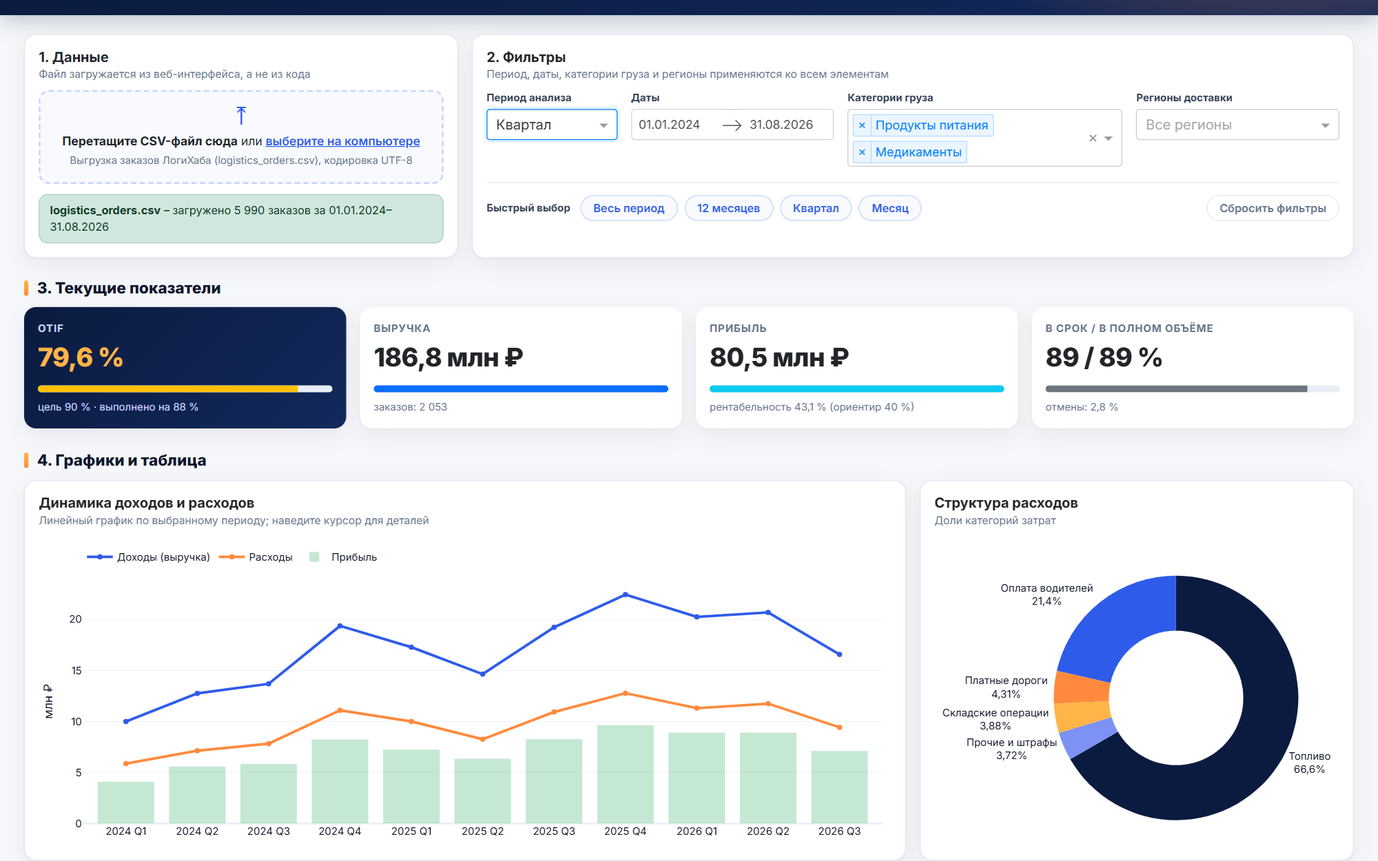
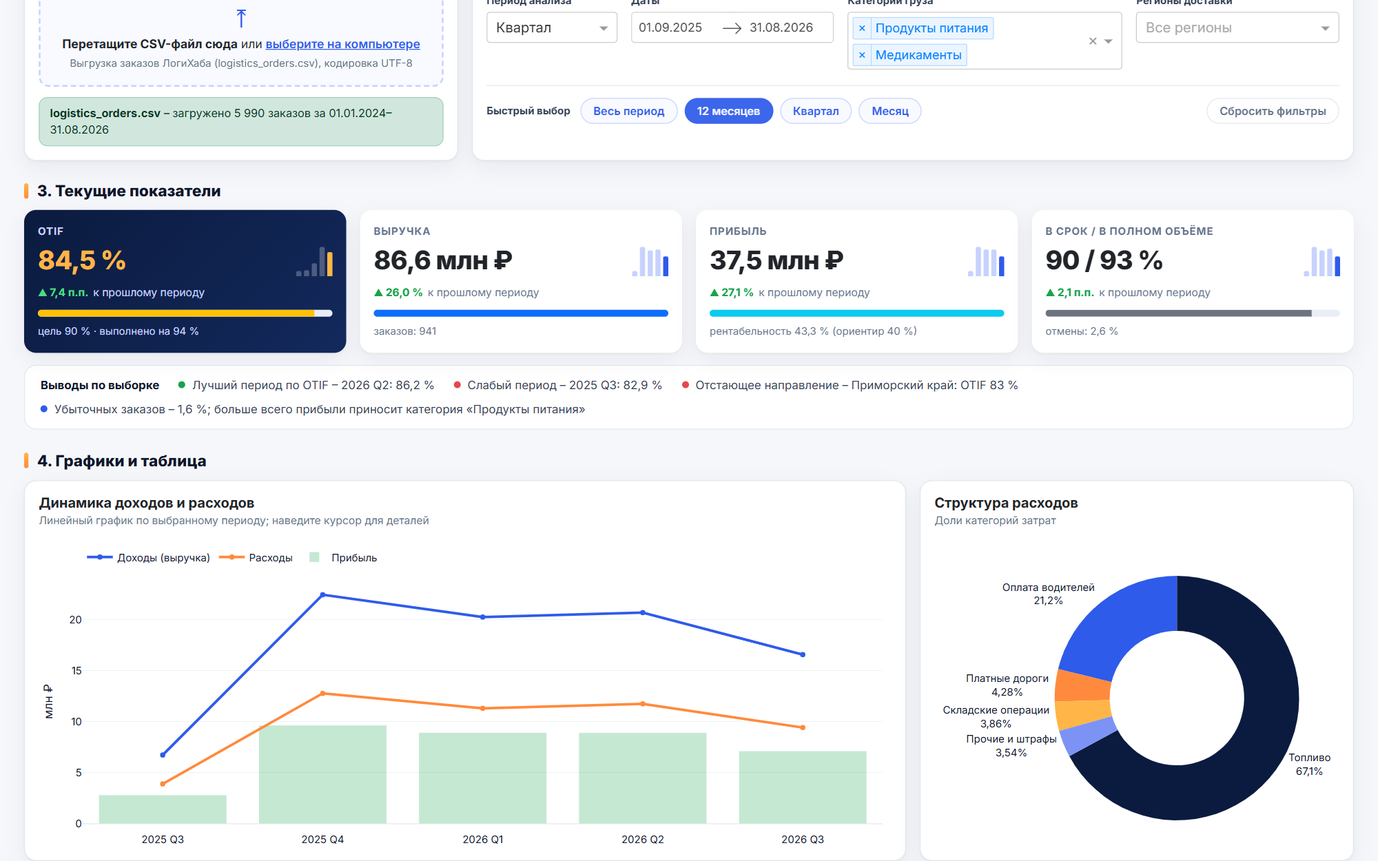
feat: сравнение с прошлым периодом, мини-тренды, выводы, перекрёстная фильтрация
- KPI: изменение к прошлому периоду той же длины (▲/▼, п.п. или %), мини-тренд по периодам
- «Выводы по выборке»: лучший и слабый период по OTIF, отстающее направление, доля убыточных заказов
- щелчок по региону на графике фильтрует весь дашборд, повторный – снимает фильтр
- плавный пересчёт: числа в карточках (assets/kpi.js) и графики (transition) перетекают к новым значениям
- data.previous_window и data.insights покрыты тестами (13 тестов)
- README и скриншоты документации обновлены

diff --git a/assets/style.css b/assets/style.css
@@ -67,3 +67,35 @@ body { background: var(--bg); font-family: Inter, "Segoe UI", Arial, sans-serif;
 .lh-chip:focus-visible, .lh-reset:focus-visible { outline: 2px solid var(--blue); outline-offset: 2px; }
 .lh-dates .DateRangePickerInput { height: 36px; border: 1px solid #ccc; border-radius: 4px; overflow: hidden; }
 .lh-dates .DateInput_input { height: 34px; font-size: 14px; border-bottom: 0; }
+
+/* KPI: значение и мини-тренд в одной строке, изменение к прошлому периоду */
+.lh-kpi-row { display: flex; align-items: flex-end; justify-content: space-between; gap: 12px; }
+.lh-kpi-row .lh-kpi-value { margin-bottom: 6px; }
+.lh-spark { display: flex; align-items: flex-end; gap: 3px; height: 34px; margin-bottom: 10px; flex: none; }
+.lh-spark i { display: block; width: 6px; border-radius: 2px 2px 0 0; background: #c7d2fe; transition: height .45s cubic-bezier(.4, 0, .2, 1); }
+.lh-spark i:last-child { background: var(--blue); }
+.lh-kpis .col-xl-3:first-child .lh-spark i { background: rgba(255, 255, 255, .25); }
+.lh-kpis .col-xl-3:first-child .lh-spark i:last-child { background: var(--amber); }
+.lh-delta { display: block; font-size: 12.5px; color: var(--muted); margin: 0 0 10px; }
+.lh-delta b { font-weight: 700; margin-right: 2px; }
+.lh-delta--up b { color: #16a34a; }
+.lh-delta--down b { color: #e5484d; }
+.lh-delta--flat b { color: var(--muted); }
+.lh-delta--none { font-style: italic; }
+.lh-kpis .col-xl-3:first-child .lh-delta { color: #c7d2fe; }
+.lh-kpis .col-xl-3:first-child .lh-delta--up b { color: #4ade80; }
+.lh-kpis .col-xl-3:first-child .lh-delta--down b { color: #fca5a5; }
+
+/* выводы по выборке */
+.lh-insights:not(:empty) { display: flex; flex-wrap: wrap; align-items: center; gap: 8px 22px; margin-top: 14px; padding: 12px 18px;
+  background: #fff; border: 1px solid var(--line); border-radius: 14px; font-size: 13.5px; }
+.lh-insights-title { font-weight: 700; color: var(--ink); }
+.lh-insight { display: flex; align-items: center; gap: 8px; color: #334155; }
+.lh-dot { width: 8px; height: 8px; border-radius: 50%; flex: none; }
+.lh-dot--good { background: #16a34a; } .lh-dot--bad { background: #e5484d; } .lh-dot--info { background: var(--blue); }
+
+/* пересчёт: графики приглушаются, пока Dash обновляет данные; кликабельный график регионов */
+.lh-card .js-plotly-plot { transition: opacity .2s; }
+.lh-card:has([data-dash-is-loading="true"]) .js-plotly-plot { opacity: .55; }
+.lh-click .bars .point { cursor: pointer; }
+@media (prefers-reduced-motion: reduce) { .lh-spark i { transition: none; } }

diff --git a/assets/kpi.js b/assets/kpi.js
@@ -1,0 +1,32 @@
+/* Плавный пересчёт KPI: при смене фильтров числа в карточках перетекают от прежнего значения к новому.
+   Dash подключает файлы из assets/ автоматически. */
+(() => {
+  if (matchMedia("(prefers-reduced-motion: reduce)").matches) return;
+  const last = new Map();                                   // заголовок карточки -> прежние числа
+  const NUM = /\d+(?:,\d+)?/g;
+  const parse = (t) => (t.match(NUM) || []).map((s) => parseFloat(s.replace(",", ".")));
+  const fmt = (v, like) => { const dec = (like.split(",")[1] || "").length; return v.toFixed(dec).replace(".", ","); };
+
+  function animate(el, from, to) {
+    const tpl = el.textContent, parts = tpl.match(NUM) || [];
+    const t0 = performance.now(), dur = 650;
+    const step = (now) => {
+      const k = Math.min(1, (now - t0) / dur), e = 1 - Math.pow(1 - k, 3);
+      let i = 0;
+      el.textContent = tpl.replace(NUM, (m) => { const a = from[i] ?? to[i], b = to[i]; i += 1; return fmt(a + (b - a) * e, m); });
+      if (k < 1 && el.isConnected) requestAnimationFrame(step); else el.textContent = tpl;
+    };
+    if (parts.length) requestAnimationFrame(step);
+  }
+
+  new MutationObserver(() => {
+    document.querySelectorAll("#kpi-indicators .lh-kpi").forEach((card) => {
+      const el = card.querySelector(".lh-kpi-value"), key = card.querySelector(".lh-kpi-title")?.textContent;
+      if (!el || el.dataset.seen) return;
+      el.dataset.seen = "1";
+      const to = parse(el.textContent), from = last.get(key) || to.map(() => 0);
+      last.set(key, to);
+      if (to.some((v, i) => v !== from[i])) animate(el, from, to);
+    });
+  }).observe(document.body, { childList: true, subtree: true });
+})();

diff --git a/logihub_dashboard/callbacks.py b/logihub_dashboard/callbacks.py
@@ -8,7 +8,8 @@ import pandas as pd
 from dash import ALL, Input, Output, State, ctx, html, no_update
 
 from . import figures
-from .data import OTIF_TARGET, DataError, by_period, filter_orders, kpis, parse_upload, prepare
+from .data import (OTIF_TARGET, DataError, by_period, filter_orders, insights, kpis, parse_upload, prepare,
+                   previous_window)
 
 
 def _money(value: float) -> str:
@@ -21,10 +22,32 @@ def _pct(value: float, digits: int = 1) -> str:
     return f"{value:.{digits}f}".replace(".", ",") + " %"
 
 
-def indicator(title: str, value: str, percent: float, target: str, color: str) -> dbc.Card:
+def delta(now: float, before: float | None, kind: str) -> html.Span:
+    """Изменение к прошлому периоду той же длины: kind «pp» – процентные пункты, «rel» – проценты."""
+    if before is None:
+        return html.Span("нет прошлого периода для сравнения", className="lh-delta lh-delta--none")
+    d = now - before if kind == "pp" else ((now - before) / abs(before) * 100 if before else 0.0)
+    unit = " п.п." if kind == "pp" else " %"
+    arrow, tone = ("▲", "up") if d > 0.05 else ("▼", "down") if d < -0.05 else ("■", "flat")
+    return html.Span([html.B(f"{arrow} {abs(d):.1f}".replace(".", ",") + unit), " к прошлому периоду"],
+                     className=f"lh-delta lh-delta--{tone}")
+
+
+def spark(values) -> html.Div:
+    """Мини-тренд: последние 12 значений столбиками."""
+    vals = [float(v) for v in list(values)[-12:]]
+    if len(vals) < 2:
+        return html.Div(className="lh-spark")
+    lo, hi = min(vals), max(vals)
+    return html.Div(className="lh-spark", title="тренд по периодам выборки", children=[
+        html.I(style={"height": f"{18 + (v - lo) / (hi - lo or 1) * 82:.0f}%"}) for v in vals])
+
+
+def indicator(title: str, value: str, percent: float, target: str, color: str, change=None, trend=None) -> dbc.Card:
     return dbc.Card(className="lh-kpi", children=dbc.CardBody([
         html.Div(title, className="lh-kpi-title"),
-        html.Div(value, className="lh-kpi-value"),
+        html.Div([html.Div(value, className="lh-kpi-value"), trend], className="lh-kpi-row"),
+        change,
         dbc.Progress(value=max(0, min(percent, 100)), color=color, className="lh-progress"),
         html.Div(target, className="lh-kpi-target"),
     ]))
@@ -67,9 +90,24 @@ def register(app) -> None:
         return start.date(), hi.date(), no_update, no_update
 
     @app.callback(
+        Output("regions", "value", allow_duplicate=True), Output("graph-regions", "clickData"),
+        Input("graph-regions", "clickData"), State("regions", "value"),
+        prevent_initial_call=True,
+    )
+    def region_click(click, current):
+        """Перекрёстная фильтрация: щелчок по столбцу региона добавляет его в фильтр или убирает."""
+        if not click:
+            return no_update, no_update
+        region = click["points"][0]["y"]
+        current = list(current or [])
+        # clickData сбрасывается – иначе повторный щелчок по тому же столбцу не дойдёт до колбэка
+        return ([r for r in current if r != region] if region in current else [*current, region]), None
+
+    @app.callback(
         Output("kpi-indicators", "children"), Output("graph-timeseries", "figure"), Output("graph-costs", "figure"),
         Output("graph-profit-hist", "figure"), Output("graph-scatter", "figure"), Output("graph-otif", "figure"),
         Output("graph-regions", "figure"), Output("table-kpi", "data"), Output("dataset-info", "children"),
+        Output("insights", "children"),
         Input("store-data", "data"), Input("period", "value"), Input("date-range", "start_date"),
         Input("date-range", "end_date"), Input("cargo", "value"), Input("regions", "value"),
         Input("scatter-x", "value"),
@@ -78,23 +116,35 @@ def register(app) -> None:
         if not data:
             placeholder = figures.empty()
             hint = html.Div("Загрузите файл с данными, чтобы увидеть показатели", className="lh-empty")
-            return hint, *[placeholder] * 6, [], "Данные не загружены"
+            return hint, *[placeholder] * 6, [], "Данные не загружены", []
         df = prepare(pd.read_json(io.StringIO(data), orient="split"))
         view = filter_orders(df, start, end, cargo, regions)
         k = kpis(view)
+        win = previous_window(df, start, end)
+        p = kpis(filter_orders(df, *win, cargo, regions)) if win else None
+        prev = (lambda key: p[key] if p and p["orders"] else None)
+        per = by_period(view, freq)
         cards = dbc.Row(className="g-3", children=[
             dbc.Col(md=6, xl=3, children=indicator("OTIF", _pct(k["otif"]), k["otif"] / OTIF_TARGET * 100,
                                                    f"цель {OTIF_TARGET:.0f} % · выполнено на {k['otif'] / OTIF_TARGET * 100:.0f} %",
-                                                   "success" if k["otif"] >= OTIF_TARGET else "warning")),
+                                                   "success" if k["otif"] >= OTIF_TARGET else "warning",
+                                                   delta(k["otif"], prev("otif"), "pp"), spark(per["otif"]))),
             dbc.Col(md=6, xl=3, children=indicator("Выручка", _money(k["revenue"]), 100,
-                                                   f"заказов: {k['orders']:,}".replace(",", " "), "primary")),
+                                                   f"заказов: {k['orders']:,}".replace(",", " "), "primary",
+                                                   delta(k["revenue"], prev("revenue"), "rel"), spark(per["revenue"]))),
             dbc.Col(md=6, xl=3, children=indicator("Прибыль", _money(k["profit"]), k["margin"] / 40 * 100,
-                                                   f"рентабельность {_pct(k['margin'])} (ориентир 40 %)", "info")),
+                                                   f"рентабельность {_pct(k['margin'])} (ориентир 40 %)", "info",
+                                                   delta(k["profit"], prev("profit"), "rel"), spark(per["profit"]))),
             dbc.Col(md=6, xl=3, children=indicator("В срок / в полном объёме", f"{k['on_time']:.0f} / {k['in_full']:.0f} %",
-                                                   k["on_time"], f"отмены: {_pct(k['cancel_rate'])}", "secondary")),
+                                                   k["on_time"], f"отмены: {_pct(k['cancel_rate'])}", "secondary",
+                                                   delta(k["on_time"], prev("on_time"), "pp"), spark(per["orders"]))),
         ])
-        table = by_period(view, freq)[["label", "orders", "revenue", "total_cost", "profit", "margin", "otif"]]
+        table = per[["label", "orders", "revenue", "total_cost", "profit", "margin", "otif"]]
+        notes = [html.Div([html.Span(className=f"lh-dot lh-dot--{kind}"), text], className="lh-insight")
+                 for kind, text in insights(view, freq)]
+        notes = [html.Div("Выводы по выборке", className="lh-insights-title"), *notes] if notes else []
         info = f"{len(view):,} из {len(df):,} заказов в выборке".replace(",", " ")
         return (cards, figures.revenue_cost_timeseries(view, freq), figures.cost_pie(view),
                 figures.profit_histogram(view), figures.profit_scatter(view, scatter_x), figures.otif_trend(view, freq),
-                figures.region_bars(view), table.round(2).to_dict("records"), info)
+                figures.region_bars(filter_orders(df, start, end, cargo, None), regions),
+                table.round(2).to_dict("records"), info, notes)

diff --git a/logihub_dashboard/figures.py b/logihub_dashboard/figures.py
@@ -18,6 +18,7 @@ def _style(fig: go.Figure, height: int = 360) -> go.Figure:
         font=dict(family="Inter, Segoe UI, Arial", size=12, color="#0f172a"),
         legend=dict(orientation="h", yanchor="bottom", y=1.04, xanchor="left", x=0, title_text=""),
         hoverlabel=dict(bgcolor="white", font_size=12), separators=", ",
+        transition=dict(duration=450, easing="cubic-in-out"),   # при смене фильтров графики перетекают
     )
     fig.update_xaxes(showgrid=False)
     fig.update_yaxes(gridcolor="#eef2f7")
@@ -109,16 +110,18 @@ def otif_trend(df: pd.DataFrame, freq: str) -> go.Figure:
     return _style(fig, 300)
 
 
-def region_bars(df: pd.DataFrame) -> go.Figure:
+def region_bars(df: pd.DataFrame, selected: list | None = None) -> go.Figure:
+    """Выручка и OTIF по регионам. df – без фильтра по регионам, выбранные регионы выделяются цветом."""
     done = completed(df)
     if done.empty:
         return empty("Нет данных")
     data = done.groupby("region").agg(revenue=("revenue", "sum"), otif=("otif", "mean")).reset_index()
     data = data.sort_values("revenue")
-    fig = go.Figure(go.Bar(x=data["revenue"] / 1e6, y=data["region"], orientation="h", marker_color=BLUE,
+    colors = [BLUE if not selected or r in selected else "#c7d2fe" for r in data["region"]]
+    fig = go.Figure(go.Bar(x=data["revenue"] / 1e6, y=data["region"], orientation="h", marker_color=colors,
                            text=[f"OTIF {v * 100:.0f} %" for v in data["otif"]], textposition="inside",
-                           insidetextanchor="end", textfont=dict(color="white"),
-                           hovertemplate="%{y}<br>Выручка: %{x:.1f} млн ₽<extra></extra>"))
+                           insidetextanchor="end", textfont=dict(color=["white" if c == BLUE else NAVY for c in colors]),
+                           hovertemplate="%{y}<br>Выручка: %{x:.1f} млн ₽<br><i>щелчок – фильтр по региону</i><extra></extra>"))
     fig.update_xaxes(title_text="Выручка, млн ₽", showgrid=True, gridcolor="#eef2f7")
     return _style(fig, 300)
 

diff --git a/logihub_dashboard/data.py b/logihub_dashboard/data.py
@@ -119,3 +119,42 @@ def cost_structure(df: pd.DataFrame) -> pd.DataFrame:
     done = completed(df)
     s = done[list(COST_COLUMNS)].sum().rename(index=COST_COLUMNS)
     return s.reset_index().rename(columns={"index": "category", 0: "amount"})
+
+
+def previous_window(df: pd.DataFrame, start, end):
+    """Период той же длины непосредственно перед выбранным – для сравнения KPI.
+    None, если границы не заданы или данных до начала выборки нет."""
+    if not start or not end or df.empty:
+        return None
+    s, e = pd.to_datetime(start).normalize(), pd.to_datetime(end).normalize()
+    days = (e - s).days + 1
+    ps, pe = s - pd.Timedelta(days=days), s - pd.Timedelta(days=1)
+    if ps < df["order_date"].min().normalize():
+        return None
+    return ps, pe
+
+
+def _ru(v: float, digits: int = 1) -> str:
+    return f"{v:.{digits}f}".replace(".", ",")
+
+
+def insights(df: pd.DataFrame, freq: str = "M") -> list[tuple[str, str]]:
+    """Короткие выводы по выборке: (вид, текст). Вид: good / bad / info."""
+    done = completed(df)
+    if len(done) < 30:
+        return []
+    out = []
+    per = by_period(df, freq)
+    if len(per) >= 2:
+        best, worst = per.loc[per["otif"].idxmax()], per.loc[per["otif"].idxmin()]
+        out.append(("good", f"Лучший период по OTIF – {best['label']}: {_ru(best['otif'])} %"))
+        out.append(("bad", f"Слабый период – {worst['label']}: {_ru(worst['otif'])} %"))
+    reg = done.groupby("region")["otif"].agg(["mean", "size"])
+    reg = reg[reg["size"] >= 20]
+    if len(reg) >= 2:
+        r = reg["mean"].idxmin()
+        out.append(("bad", f"Отстающее направление – {r}: OTIF {reg.loc[r, 'mean'] * 100:.0f} %"))
+    loss = (done["profit"] < 0).mean() * 100
+    cargo = done.groupby("cargo_type")["profit"].sum().idxmax()
+    out.append(("info", f"Убыточных заказов – {_ru(loss)} %; больше всего прибыли приносит категория «{cargo}»"))
+    return out

diff --git a/logihub_dashboard/layout.py b/logihub_dashboard/layout.py
@@ -100,7 +100,8 @@ def build_layout() -> html.Div:
                                             "Период, даты, категории груза и регионы применяются ко всем элементам")),
             ]),
             html.Section(className="lh-section", children=[
-                html.H2("3. Текущие показатели"), html.Div(id="kpi-indicators", className="lh-kpis")]),
+                html.H2("3. Текущие показатели"), html.Div(id="kpi-indicators", className="lh-kpis"),
+                html.Div(id="insights", className="lh-insights")]),
             html.H2("4. Графики и таблица", className="lh-h2"),
             dbc.Row(className="g-3", children=[
                 dbc.Col(lg=8, children=card("Динамика доходов и расходов", dcc.Graph(id="graph-timeseries"),
@@ -121,8 +122,8 @@ def build_layout() -> html.Div:
             dbc.Row(className="g-3 mt-1", children=[
                 dbc.Col(lg=7, children=card("OTIF по периодам и релизы продукта", dcc.Graph(id="graph-otif"),
                                             "Главный KPI продукта, цель – 90 %")),
-                dbc.Col(lg=5, children=card("Выручка и OTIF по регионам", dcc.Graph(id="graph-regions"),
-                                            "Сравнение направлений доставки")),
+                dbc.Col(lg=5, children=card("Выручка и OTIF по регионам", dcc.Graph(id="graph-regions", className="lh-click"),
+                                            "Щёлкните по столбцу – фильтр по региону, повторный щелчок снимает его")),
             ]),
             dbc.Row(className="g-3 mt-1", children=[
                 dbc.Col(width=12, children=card("Ключевые финансовые показатели за выбранный период", kpi_table(),

diff --git a/tests/test_data.py b/tests/test_data.py
@@ -67,3 +67,19 @@ def test_figures_build_without_errors(df):
                 figures.profit_scatter(df, "weight_kg"), figures.otif_trend(df, "M"), figures.region_bars(df),
                 figures.revenue_cost_timeseries(df.iloc[0:0], "M")):
         assert fig.to_dict()["data"] is not None
+
+
+def test_previous_window_same_length(df):
+    from logihub_dashboard.data import previous_window
+    ps, pe = previous_window(df, "2026-07-01", "2026-08-31")
+    assert (pe - ps).days + 1 == 62 and pe == pd.Timestamp("2026-06-30")
+    assert previous_window(df, df["order_date"].min(), "2026-08-31") is None
+
+
+def test_insights_name_best_and_worst_period(df):
+    from logihub_dashboard.data import insights
+    items = insights(df, "Q")
+    kinds = [k for k, _ in items]
+    assert "good" in kinds and "bad" in kinds
+    assert any("OTIF" in t for _, t in items)
+    assert not any("," in t.split("–")[1].split(":")[0] for k, t in items if k != "info"), "метка периода не должна портиться"

diff --git a/README.md b/README.md
@@ -31,7 +31,10 @@ BPMN-процесса «Закрыть заказ и пересчитать OTIF
 - загрузка CSV-файла **из веб-интерфейса** (drag-and-drop или выбор файла) с проверкой формата;
 - выбор периода анализа – **месяц / квартал / год** – и диапазона дат, быстрый выбор «весь период / 12 месяцев / квартал / месяц» и сброс фильтров;
 - фильтрация по **категориям груза** и **регионам доставки**;
-- 4 индикатора текущих значений с полосами прогресса (OTIF, выручка, прибыль, On Time / In Full);
+- 4 индикатора текущих значений с полосами прогресса (OTIF, выручка, прибыль, On Time / In Full), изменением к прошлому периоду той же длины (▲/▼) и мини-трендом;
+- автоматические выводы по выборке: лучший и слабый период по OTIF, отстающее направление, доля убыточных заказов;
+- перекрёстная фильтрация: щелчок по региону на графике фильтрует весь дашборд;
+- плавный пересчёт: числа в карточках и графики перетекают к новым значениям;
 - 6 интерактивных графиков с подсказками при наведении и таблица ключевых показателей.
 
 ## Состав дашборда
@@ -41,13 +44,14 @@ BPMN-процесса «Закрыть заказ и пересчитать OTIF
 | 1 | Загрузка данных | `dcc.Upload` | Загружает `logistics_orders.csv`, сообщает число заказов и период |
 | 2 | Период анализа | `dcc.Dropdown` | Группировка данных: месяц, квартал, год |
 | 3 | Даты, категории, регионы | `DatePickerRange`, `Dropdown` (multi), кнопки | Фильтры, применяемые ко всем элементам; быстрый выбор периода от последней даты в файле и «Сбросить фильтры» |
-| 4 | Индикаторы | `dbc.Progress` | OTIF относительно цели 90 %, выручка, прибыль и рентабельность, доля доставок в срок и в полном объёме |
+| 4 | Индикаторы | `dbc.Progress` | OTIF относительно цели 90 %, выручка, прибыль и рентабельность, доля доставок в срок и в полном объёме; изменение к прошлому периоду той же длины и мини-тренд по периодам |
+| 4а | Выводы по выборке | текст | Лучший и слабый период по OTIF, отстающее направление, доля убыточных заказов |
 | 5 | Динамика доходов и расходов | линейный график + столбцы | Выручка, расходы и прибыль по периодам |
 | 6 | Структура расходов | круговая диаграмма | Доли топлива, оплаты водителей, складских операций, дорог, прочих затрат |
 | 7 | Распределение прибыли | гистограмма | Распределение прибыли с заказа по типам транспорта, граница убытка |
 | 8 | Корреляция прибыли | график рассеяния | Зависимость прибыли от расстояния, веса, выручки или расходов, коэффициент Пирсона |
 | 9 | OTIF по периодам | график с областью | Главный KPI и отметки релизов v1.0, v1.5, v2.0 |
-| 10 | Выручка по регионам | горизонтальные столбцы | Выручка и OTIF по направлениям |
+| 10 | Выручка по регионам | горизонтальные столбцы | Выручка и OTIF по направлениям; щелчок по столбцу добавляет регион в фильтр или снимает его |
 | 11 | Ключевые показатели | `DataTable` | Заказы, выручка, расходы, прибыль, рентабельность, OTIF за каждый период |
 
 ## Установка и запуск
@@ -89,10 +93,12 @@ pytest
    «Месяц» ставят диапазон дат от последней даты в файле; «Сбросить фильтры» возвращает весь период,
    все категории и регионы.
 3. **Оцените текущие показатели** в блоке «3»: первая карточка – OTIF и степень выполнения
-   цели 90 %.
+   цели 90 %. Под каждым значением – изменение к прошлому периоду той же длины (▲ рост, ▼ снижение),
+   справа – мини-тренд; ниже – выводы по выборке.
 4. **Исследуйте графики** в блоке «4»: наведите курсор для точных значений, выделите
    область мышью для масштабирования, двойной щелчок – сброс масштаба. На графике
-   рассеяния выберите параметр в выпадающем списке справа.
+   рассеяния выберите параметр в выпадающем списке справа. Щелчок по столбцу на графике
+   «Выручка и OTIF по регионам» фильтрует весь дашборд по региону, повторный щелчок снимает фильтр.
 5. **Сравните периоды** в таблице внизу: сортировка – по клику на заголовок столбца,
    OTIF ≥ 90 % подсвечивается зелёным, ниже 75 % – красным.
 
@@ -139,8 +145,8 @@ logihub-dashboard/
 │   ├── data.py                # загрузка, проверка, агрегирование
 │   ├── figures.py             # графики Plotly
 │   ├── layout.py              # разметка страницы
-│   └── callbacks.py           # интерактивность
-├── assets/                    # стили и логотип
+│   └── callbacks.py           # интерактивность, сравнение периодов, перекрёстная фильтрация
+├── assets/                    # стили, логотип, kpi.js – плавный пересчёт чисел
 ├── data/                      # генератор и тестовая выгрузка заказов
 ├── tests/                     # pytest
 ├── docs/screenshots/          # изображения для документации
@@ -152,7 +158,7 @@ logihub-dashboard/
 
 | Ветка | Назначение |
 |---|---|
-| `main` | релизная ветка, стабильные версии (теги `v1.0.0` – дашборд, `v1.1.0` – пакет для Telegram-бота) |
+| `main` | релизная ветка, стабильные версии (теги `v1.0.0` – дашборд, `v1.1.0` – пакет для Telegram-бота, `v1.2.0` – сравнение периодов и выводы) |
 | `develop` | тестовая ветка, интеграция функциональности |
 | `feature/*` | разработка отдельных возможностей с последующим слиянием в `develop` |
 
